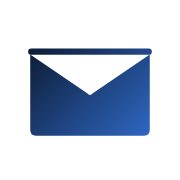
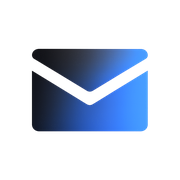
Reverted to commit f90d9b11dd2ba053573f8a0f6c4f60a4318d66cd

diff --git a/src/components/brand-logo.tsx b/src/components/brand-logo.tsx
@@ -1,10 +1,9 @@
 import { cn } from "@/lib/utils";
-import * as React from "react";
+import logoAsset from "@/assets/mailmaestro-envelope-original.png.asset.json";
 
 /**
- * Official MailMaestro brand mark — exact vector replica of the reference
- * envelope icon. Two colors only (#000000 → #3B82F6), transparent background,
- * sharp at any size, and tiny file size.
+ * Official MailMaestro brand mark.
+ * Uses the original uploaded transparent artwork without cropping or recompression.
  */
 export function BrandLogo({
   className,
@@ -13,46 +12,15 @@ export function BrandLogo({
   className?: string;
   alt?: string;
 }) {
-  const gradientId = React.useId().replace(/:/g, "_");
-
   return (
-    <svg
-      viewBox="0 0 512 512"
-      xmlns="http://www.w3.org/2000/svg"
-      aria-label={alt}
-      role="img"
-      className={cn("shrink-0", className)}
-    >
-      <defs>
-        <linearGradient
-          id={gradientId}
-          x1="0"
-          y1="0"
-          x2="512"
-          y2="512"
-          gradientUnits="userSpaceOnUse"
-        >
-          <stop offset="0%" stopColor="#000000" />
-          <stop offset="100%" stopColor="#3B82F6" />
-        </linearGradient>
-      </defs>
-
-      {/* Envelope body with V-shaped top opening */}
-      <path
-        fill={`url(#${gradientId})`}
-        d="M86 265 L86 155 L248 265 Q256 275 264 265 L426 155 L426 265 L426 370 Q426 386 410 386 L102 386 Q86 386 86 370 Z"
-      />
-
-      {/* Top flap */}
-      <rect
-        x="80"
-        y="138"
-        width="352"
-        height="18"
-        rx="9"
-        fill={`url(#${gradientId})`}
-      />
-    </svg>
+    <img
+      src={logoAsset.url}
+      alt={alt}
+      width={1024}
+      height={1024}
+      loading="eager"
+      decoding="async"
+      className={cn("object-contain object-center", className)}
+    />
   );
 }
-

diff --git a/src/routes/index.tsx b/src/routes/index.tsx
@@ -40,7 +40,7 @@ function Landing() {
       {/* Header */}
       <header className="sticky top-0 z-40 border-b border-border/60 glass">
         <div className="mx-auto flex h-16 max-w-7xl items-center justify-between px-4 sm:px-6">
-          <Link to="/" className="flex items-center gap-1" dir="ltr">
+          <Link to="/" className="flex items-center gap-1.5" dir="ltr">
             <BrandLogo className="h-9 w-9 rounded-xl shadow-brand" />
             <span className="text-lg font-bold tracking-tight">MailMaestro</span>
           </Link>

diff --git a/src/routes/company.tsx b/src/routes/company.tsx
@@ -78,7 +78,7 @@ function CompanyPortalPage() {
           }}
         />
         <div className="relative flex h-full flex-col justify-between p-12 text-white">
-          <Link to="/" className="flex items-center gap-1" dir="ltr">
+          <Link to="/" className="flex items-center gap-1.5" dir="ltr">
             <BrandLogo className="h-10 w-10 rounded-xl" />
             <span className="text-xl font-bold">MailMaestro</span>
           </Link>

diff --git a/src/routes/login.tsx b/src/routes/login.tsx
@@ -79,7 +79,7 @@ function LoginPage() {
           }}
         />
         <div className="relative flex h-full flex-col justify-between p-12 text-white">
-          <Link to="/" className="flex items-center gap-1" dir="ltr">
+          <Link to="/" className="flex items-center gap-1.5" dir="ltr">
             <BrandLogo className="h-10 w-10 rounded-xl" />
             <span className="text-xl font-bold">MailMaestro</span>
           </Link>

diff --git a/src/routes/demo.tsx b/src/routes/demo.tsx
@@ -275,7 +275,7 @@ function DemoMailApp() {
           <Menu className="h-5 w-5" />
         </button>
 
-        <Link to="/" className="flex shrink-0 items-center gap-1" dir="ltr">
+        <Link to="/" className="flex shrink-0 items-center gap-1.5" dir="ltr">
           <BrandLogo className="h-8 w-8 rounded-lg" />
           <span className="hidden text-base font-bold sm:inline">MailMaestro</span>
         </Link>

diff --git a/src/routes/mail.tsx b/src/routes/mail.tsx
@@ -3642,7 +3642,7 @@ function MailApp() {
           <Menu className="h-5 w-5" />
         </button>
 
-        <Link to="/mail" className="flex shrink-0 items-center gap-1" dir="ltr">
+        <Link to="/mail" className="flex shrink-0 items-center gap-1.5" dir="ltr">
           {session.company?.logo_url ? (
             <img
               src={session.company.logo_url}
